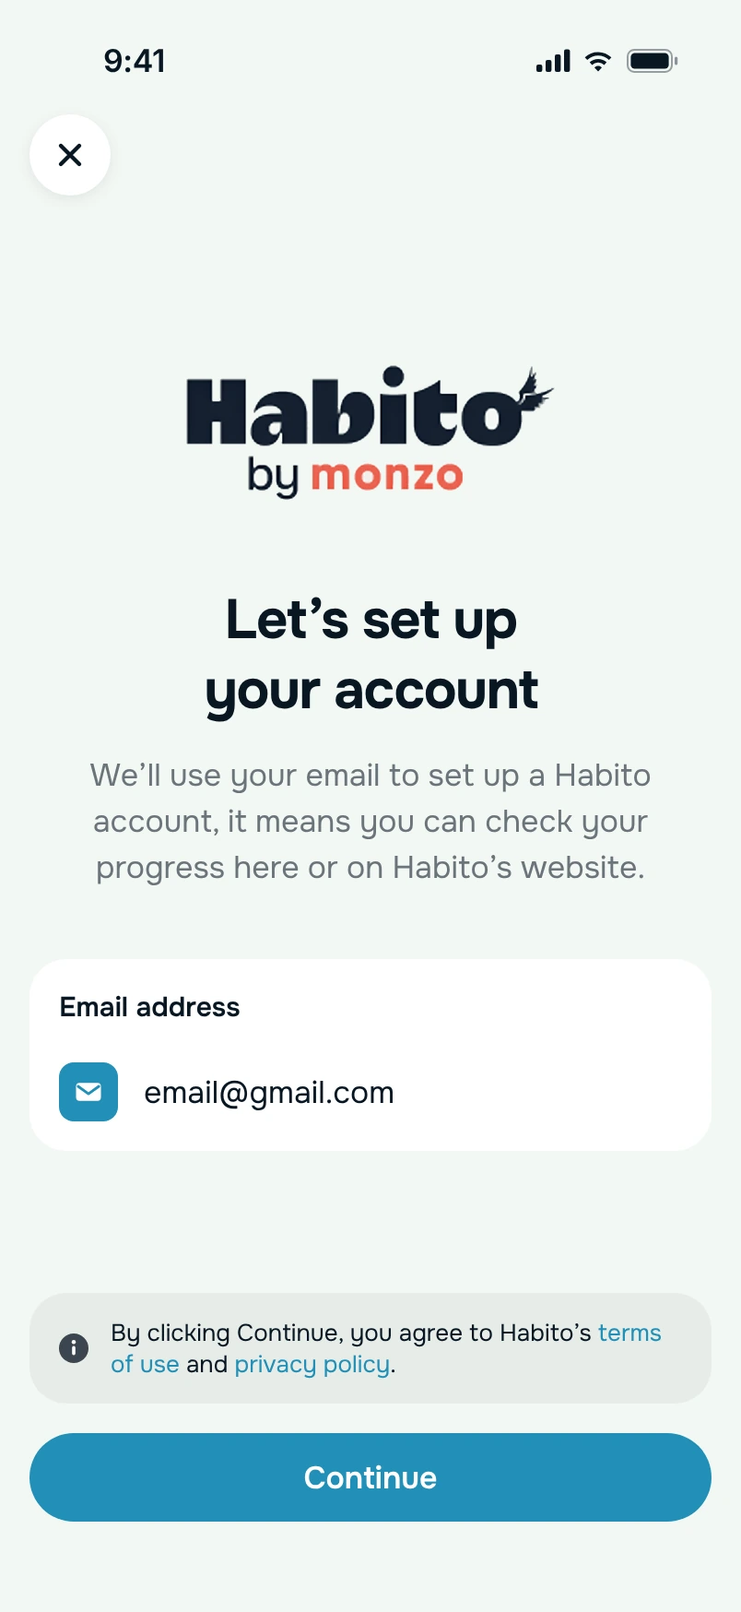
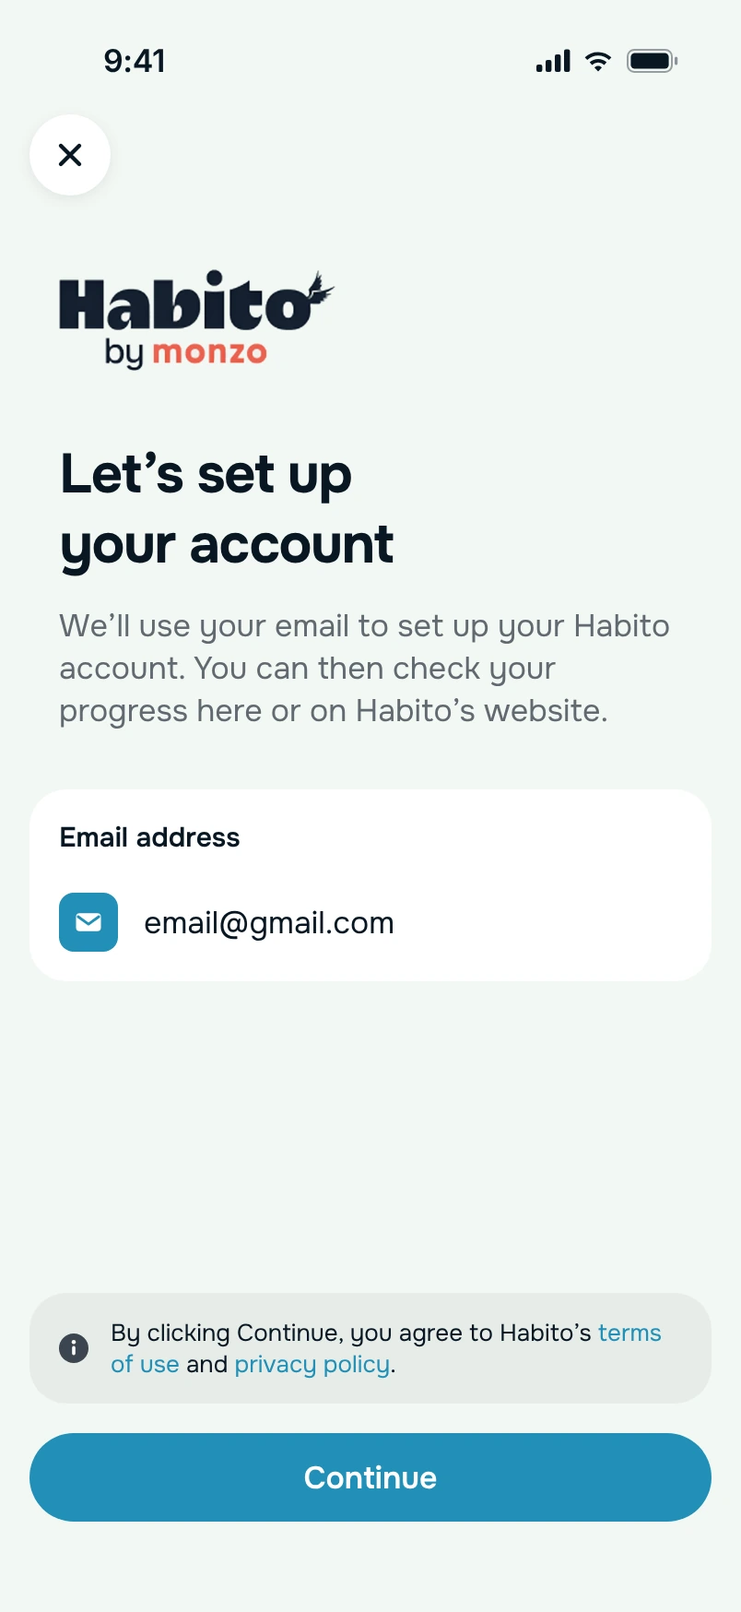
Remortgage deck: slide 9 screens left-aligned, clearer copy, 17 pt body and darker grey
Claude-Session: https://claude.ai/code/session_019ui8k763ghSzq4U6arn5bM

diff --git a/remortgage-presentation/present.html b/remortgage-presentation/present.html
@@ -9,11 +9,11 @@
 <link rel="preconnect" href="https://fonts.googleapis.com">
 <link rel="preconnect" href="https://fonts.gstatic.com" crossorigin>
 <link href="https://fonts.googleapis.com/css2?family=DM+Sans:opsz,wght@9..40,400;9..40,500;9..40,600;9..40,700;9..40,800&family=Fragment+Mono&display=swap" rel="stylesheet">
-<link rel="stylesheet" href="styles.css?v=198">
-<link rel="stylesheet" href="deck.css?v=198">
-<link rel="stylesheet" href="monzo.css?v=198">
+<link rel="stylesheet" href="styles.css?v=199">
+<link rel="stylesheet" href="deck.css?v=199">
+<link rel="stylesheet" href="monzo.css?v=199">
 <link rel="preconnect" href="https://images.ctfassets.net">
-<script src="present.js?v=198" defer></script>
+<script src="present.js?v=199" defer></script>
 <style>
 body.present{--bar:52px;background:#112231;grid-template-rows:minmax(0,1fr) auto;height:100svh;min-height:0;overflow:hidden}
 .present .topbar,.present .slide-caption,.present .arrow,.present .notes-bottom,.present .notes-sheet{display:none!important}
@@ -110,7 +110,7 @@ body.present{--bar:52px;background:#112231;grid-template-rows:minmax(0,1fr) auto
 <div class="vr" data-vr><i class="vr-glow" aria-hidden="true"></i><button class="vr-ph" type="button" style="--i:0" data-tap="" aria-label="Screen 1 of 10: Your home: your deal ends in 6 months, find a new deal"><span class="vr-rise"><span class="vr-dev"><span class="bz"><span class="bz-screen"><span class="vr-st"><span class="vr-sc" data-d="1"><img class="bz-anim vr-base" src="assets/img/vis-01.webp?v=1" alt="Your home: your deal ends in 6 months, find a new deal" decoding="async"><img class="bz-anim vr-fl vr-fl-float" src="assets/img/vr/v01-ill0.webp?v=1" alt="" style="left:350px;top:300px;width:220px;animation-delay:-0.0s"></span></span></span></span></span><i class="vr-bar"><i></i></i></span></button><button class="vr-ph" type="button" style="--i:1" data-tap=".5,.913" aria-label="Screen 2 of 10: Your deal ends in September: example deals based on what we know"><span class="vr-rise"><span class="vr-dev"><span class="bz"><span class="bz-screen"><span class="vr-st"><span class="vr-sc" data-d="1316"><img class="bz-anim vr-base" src="assets/img/vr/v02-base.webp" alt="Your deal ends in September: example deals based on what we know" decoding="async"><span class="vr-row" style="top:973.8px;height:275.6px;background:#f2f8f3"><img class="bz-anim vr-ri" src="assets/img/vr/v02-row-a.webp?v=1" alt="" style="width:1710px" data-dx="1110"></span><span class="vr-row" style="top:1773.8px;height:232.1px;background:#f2f8f3"><img class="bz-anim vr-ri" src="assets/img/vr/v02-row-b.webp?v=1" alt="" style="width:1447px" data-dx="0"></span><img class="bz-anim vr-fl vr-fl-bob" src="assets/img/vr/v02-logo0.webp?v=1" alt="" style="left:67.9px;top:162.6px;width:100px;animation-delay:-0.0s"><img class="bz-anim vr-fl vr-fl-bob" src="assets/img/vr/v02-logo1.webp?v=1" alt="" style="left:361.1px;top:132.8px;width:98px;animation-delay:-0.45s"><img class="bz-anim vr-fl vr-fl-bob" src="assets/img/vr/v02-logo2.webp?v=1" alt="" style="left:466.4px;top:228.2px;width:76px;animation-delay:-0.9s"><img class="bz-anim vr-fl vr-fl-bob" src="assets/img/vr/v02-logo3.webp?v=1" alt="" style="left:91.6px;top:305.3px;width:71px;animation-delay:-1.35s"></span><img class="bz-anim vr-ft" src="assets/img/vis-status.webp?v=1" alt="" style="height:84px"><img class="bz-anim vr-fb" src="assets/img/vr/v02-foot.webp?v=1" alt="" style="height:284px"></span></span></span></span><i class="vr-bar"><i></i></i></span></button><button class="vr-ph" type="button" style="--i:2" data-tap=".2,.565" aria-label="Screen 3 of 10: How would you like to proceed: speak to an expert, or get a recommendation first"><span class="vr-rise"><span class="vr-dev"><span class="bz"><span class="bz-screen"><span class="vr-st"><span class="vr-sc" data-d="0"><img class="bz-anim vr-base" src="assets/img/vis-03.webp?v=1" alt="How would you like to proceed: speak to an expert, or get a recommendation first" decoding="async"><img class="bz-anim vr-fl vr-fl-float" src="assets/img/vr/v03-ill0.webp?v=1" alt="" style="left:352px;top:560px;width:196px;animation-delay:-0.0s"><img class="bz-anim vr-fl vr-fl-float" src="assets/img/vr/v03-ill1.webp?v=1" alt="" style="left:343px;top:940px;width:217px;animation-delay:-0.7s"></span></span></span></span></span><i class="vr-bar"><i></i></i></span></button><button class="vr-ph" type="button" style="--i:3" data-tap="0.21,0.83" aria-label="Screen 4 of 10: Let’s take a quick look at your info: pre-filled details to review"><span class="vr-rise"><span class="vr-dev"><span class="bz"><span class="bz-screen"><span class="vr-st"><span class="vr-sc" data-d="71"><img class="bz-anim vr-base" src="assets/img/vis-04.webp?v=1" alt="Let’s take a quick look at your info: pre-filled details to review" decoding="async"><img class="bz-anim vr-fl vr-fl-float" src="assets/img/vr/v04-ill0.webp?v=1" alt="" style="left:350px;top:488px;width:198px;animation-delay:-0.0s"><img class="bz-anim vr-fl vr-fl-float" src="assets/img/vr/v04-ill1.webp?v=1" alt="" style="left:340px;top:698px;width:212px;animation-delay:-0.7s"><img class="bz-anim vr-fl vr-fl-float" src="assets/img/vr/v04-ill2.webp?v=1" alt="" style="left:390px;top:975px;width:170px;animation-delay:-1.4s"></span><img class="bz-anim vr-ft" src="assets/img/vis-status.webp?v=1" alt="" style="height:84px"></span></span></span></span><i class="vr-bar"><i></i></i></span></button><button class="vr-ph" type="button" style="--i:4" data-tap=".42,.525" aria-label="Screen 5 of 10: Your adviser, Jane: book a call or send a message"><span class="vr-rise"><span class="vr-dev"><span class="bz"><span class="bz-screen"><span class="vr-st"><span class="vr-sc" data-d="144"><img class="bz-anim vr-base" src="assets/img/vis-05.webp?v=1" alt="Your adviser, Jane: book a call or send a message" decoding="async"></span><img class="bz-anim vr-ft" src="assets/img/vis-status.webp?v=1" alt="" style="height:84px"></span></span></span></span><i class="vr-bar"><i></i></i></span></button><button class="vr-ph" type="button" style="--i:5" data-tap=".89,.653" aria-label="Screen 6 of 10: Chat with the Monzo assistant and your adviser"><span class="vr-rise"><span class="vr-dev"><span class="bz"><span class="bz-screen"><span class="vr-st"><span class="vr-sc" data-d="1"><img class="bz-anim vr-base" src="assets/img/vis-06.webp?v=1" alt="Chat with the Monzo assistant and your adviser" decoding="async"></span></span></span></span></span><i class="vr-bar"><i></i></i></span></button><button class="vr-ph" type="button" style="--i:6" data-tap=".21,.666" aria-label="Screen 7 of 10: Your personalised mortgage recommendations"><span class="vr-rise"><span class="vr-dev"><span class="bz"><span class="bz-screen"><span class="vr-st"><span class="vr-sc" data-d="167"><img class="bz-anim vr-base" src="assets/img/vr/v07-base.webp" alt="Your personalised mortgage recommendations" decoding="async"><span class="vr-row" style="top:535.9px;height:549.6px;background:#f2f8f3"><img class="bz-anim vr-ri" src="assets/img/vr/v07-row.webp?v=1" alt="" style="width:1289px" data-dx="689"></span></span><img class="bz-anim vr-ft" src="assets/img/vr/v07-top.webp" alt="" style="height:150px"></span></span></span></span><i class="vr-bar"><i></i></i></span></button><button class="vr-ph" type="button" style="--i:7" data-tap=".377,.49" aria-label="Screen 8 of 10: Your remortgage process: steps and what happens next"><span class="vr-rise"><span class="vr-dev"><span class="bz"><span class="bz-screen"><span class="vr-st"><span class="vr-sc" data-d="605"><img class="bz-anim vr-base" src="assets/img/vis-08.webp?v=1" alt="Your remortgage process: steps and what happens next" decoding="async"></span><img class="bz-anim vr-ft" src="assets/img/vis-status.webp?v=1" alt="" style="height:84px"></span></span></span></span><i class="vr-bar"><i></i></i></span></button><button class="vr-ph" type="button" style="--i:8" data-tap=".3,.572" aria-label="Screen 9 of 10: Documents needed by Barclays, uploaded from your phone"><span class="vr-rise"><span class="vr-dev"><span class="bz"><span class="bz-screen"><span class="vr-st"><span class="vr-sc" data-d="336"><img class="bz-anim vr-base" src="assets/img/vis-09.webp?v=1" alt="Documents needed by Barclays, uploaded from your phone" decoding="async"><img class="bz-anim vr-fl vr-fl-float" src="assets/img/vr/v09-ill0.webp?v=1" alt="" style="left:35px;top:175px;width:155px;animation-delay:-0.0s"></span><img class="bz-anim vr-ft" src="assets/img/vis-status.webp?v=1" alt="" style="height:84px"></span></span></span></span><i class="vr-bar"><i></i></i></span></button><button class="vr-ph" type="button" style="--i:9" data-tap="" aria-label="Screen 10 of 10: Your remortgage with Barclays is completed"><span class="vr-rise"><span class="vr-dev"><span class="bz"><span class="bz-screen"><span class="vr-st"><span class="vr-sc" data-d="0"><img class="bz-anim vr-base" src="assets/img/vis-10.webp?v=1" alt="Your remortgage with Barclays is completed" decoding="async"></span></span></span></span></span><i class="vr-bar"><i></i></i></span></button></div><canvas class="vr-fx" aria-hidden="true"></canvas><button class="vr-pp a" style="--d:6" type="button" aria-pressed="false"><i class="vr-pp-i" aria-hidden="true"></i><span class="vr-pp-t">Pause</span></button><span class="vr-links a" style="--d:6"><a class="fig-link ghost" href="https://monzo.com/blog/slowing-down-to-speed-up-how-a-2-month-engineering-pause-rebooted-our-mortgage-strategy" target="_blank" rel="noopener">Read the Monzo blog post ↗</a><a class="fig-link ghost" href="https://www.figma.com/design/auJMcyTUagjoT1qWHXPAzR/Remortgage-vision?node-id=604-26556&amp;t=594yZfradgzQ7vAW-1" target="_blank" rel="noopener">See the vision in Figma ↗</a></span><script src="vision-reel.js?v=3" defer></script></section>
 <section class="slide dark was-light" data-n="08" data-k="plan"><div class="eyebrow a mz-kicker">The vision</div><h1 class="a" style="--d:1">I turned the vision into bets the team could ship</h1>
 <div class="road road2"><div class="road-col a" style="--d:3"><div class="road-art"><img src="assets/img/spot-checklist.png" alt=""></div><div class="road-body"><span class="road-step">Now</span><p class="road-sub">What we could start straight away</p><ul class="road-list"><li>Onboarding to Habito</li><li>A progress tracker closer to real time</li><li>Pre-fill with data we already hold</li></ul></div></div><i class="road-arrow a" style="--d:4"></i><div class="road-col a" style="--d:4"><div class="road-art"><img src="assets/img/spot-form.png" alt=""></div><div class="road-body"><span class="road-step">Next</span><p class="road-sub">What needed more work</p><ul class="road-list"><li>Open the door to people without a connected mortgage</li><li>Our own application form</li><li>Estimated deals</li><li>Recommendations in Monzo, view only</li></ul></div></div><i class="road-arrow a" style="--d:5"></i><div class="road-col a" style="--d:5"><div class="road-art"><img src="assets/img/spot-support.png" alt=""></div><div class="road-body"><span class="road-step">Later</span><p class="road-sub">The big things</p><ul class="road-list"><li>Recommendations in Monzo, you can accept them</li><li>Adviser chat in the app*</li><li>Document upload*</li></ul></div></div></div><p class="note a road-foot" style="--d:7">* Moved back again later in 2026: we needed to grow faster, so the focus moved to first-time buyers.</p></section>
-<section class="slide dark was-light" data-n="09" data-k="honb"><div class="eyebrow a mz-kicker">The vision</div><h1 class="a" style="--d:1">We designed the onboarding to Habito</h1><div class="honb"><div class="role-ph a" style="--d:3"><div class="bz" style="width:250px"><span class="bz-screen"><img class="ir-scroll" style="--t:-44.6%" src="assets/img/honb-1.webp?v=4" alt="Find a mortgage with free expert help: Monzo introduces you to Habito, with how we’ll help and what’s good to know"></span></div><p><b>Value proposition</b> · the first page</p></div><div class="role-ph a" style="--d:4"><div class="bz" style="width:250px"><span class="bz-screen"><img src="assets/img/honb-2.webp?v=4" alt="Habito by Monzo: let’s set up your account with the email Monzo already has, then continue"></span></div><p><b>Your Habito account</b> · set up with your Monzo email</p></div><div class="role-ph a" style="--d:5"><div class="bz" style="width:250px"><span class="bz-screen"><img src="assets/img/honb-3.webp?v=4" alt="Are you remortgaging with someone else? By myself, or with someone else"></span></div><p><b>Someone else?</b> · add a second applicant</p></div><div class="role-ph a" style="--d:6"><div class="bz" style="width:250px"><span class="bz-screen"><img src="assets/img/honb-4.webp?v=4" alt="You’re all set: we’ll now take you to Habito to fill in a few details"></span></div><p><b>You’re all set</b> · then on to Habito</p></div></div></section>
+<section class="slide dark was-light" data-n="09" data-k="honb"><div class="eyebrow a mz-kicker">The vision</div><h1 class="a" style="--d:1">We designed the onboarding to Habito</h1><div class="honb"><div class="role-ph a" style="--d:3"><div class="bz" style="width:250px"><span class="bz-screen"><img class="ir-scroll" style="--t:-44.6%" src="assets/img/honb-1.webp?v=5" alt="Find a mortgage with free expert help: Monzo introduces you to Habito, with how we’ll help and what’s good to know"></span></div><p><b>Value proposition</b> · the first page</p></div><div class="role-ph a" style="--d:4"><div class="bz" style="width:250px"><span class="bz-screen"><img src="assets/img/honb-2.webp?v=5" alt="Habito by Monzo: let’s set up your account with the email Monzo already has, then continue"></span></div><p><b>Your Habito account</b> · set up with your Monzo email</p></div><div class="role-ph a" style="--d:5"><div class="bz" style="width:250px"><span class="bz-screen"><img src="assets/img/honb-3.webp?v=5" alt="Are you remortgaging with someone else? By myself, or with someone else"></span></div><p><b>Someone else?</b> · add a second applicant</p></div><div class="role-ph a" style="--d:6"><div class="bz" style="width:250px"><span class="bz-screen"><img src="assets/img/honb-4.webp?v=5" alt="You’re all set: we’ll now take you to Habito to fill in a few details"></span></div><p><b>You’re all set</b> · then on to Habito</p></div></div></section>
 <section class="slide dark was-light" data-n="10" data-k="walk">
 <div class="split" style="grid-template-columns:1fr 600px">
   <div>

diff --git a/remortgage-presentation/index.html b/remortgage-presentation/index.html
@@ -9,11 +9,11 @@
 <link rel="preconnect" href="https://fonts.googleapis.com">
 <link rel="preconnect" href="https://fonts.gstatic.com" crossorigin>
 <link href="https://fonts.googleapis.com/css2?family=DM+Sans:opsz,wght@9..40,400;9..40,500;9..40,600;9..40,700;9..40,800&family=Fragment+Mono&display=swap" rel="stylesheet">
-<link rel="stylesheet" href="styles.css?v=198">
-<link rel="stylesheet" href="deck.css?v=198">
-<link rel="stylesheet" href="monzo.css?v=198">
+<link rel="stylesheet" href="styles.css?v=199">
+<link rel="stylesheet" href="deck.css?v=199">
+<link rel="stylesheet" href="monzo.css?v=199">
 <link rel="preconnect" href="https://images.ctfassets.net">
-<script src="slides.js?v=198" defer></script>
+<script src="slides.js?v=199" defer></script>
 </head>
 <body>
 <header class="topbar">
@@ -98,7 +98,7 @@
 <div class="vr" data-vr><i class="vr-glow" aria-hidden="true"></i><button class="vr-ph" type="button" style="--i:0" data-tap="" aria-label="Screen 1 of 10: Your home: your deal ends in 6 months, find a new deal"><span class="vr-rise"><span class="vr-dev"><span class="bz"><span class="bz-screen"><span class="vr-st"><span class="vr-sc" data-d="1"><img class="bz-anim vr-base" src="assets/img/vis-01.webp?v=1" alt="Your home: your deal ends in 6 months, find a new deal" decoding="async"><img class="bz-anim vr-fl vr-fl-float" src="assets/img/vr/v01-ill0.webp?v=1" alt="" style="left:350px;top:300px;width:220px;animation-delay:-0.0s"></span></span></span></span></span><i class="vr-bar"><i></i></i></span></button><button class="vr-ph" type="button" style="--i:1" data-tap=".5,.913" aria-label="Screen 2 of 10: Your deal ends in September: example deals based on what we know"><span class="vr-rise"><span class="vr-dev"><span class="bz"><span class="bz-screen"><span class="vr-st"><span class="vr-sc" data-d="1316"><img class="bz-anim vr-base" src="assets/img/vr/v02-base.webp" alt="Your deal ends in September: example deals based on what we know" decoding="async"><span class="vr-row" style="top:973.8px;height:275.6px;background:#f2f8f3"><img class="bz-anim vr-ri" src="assets/img/vr/v02-row-a.webp?v=1" alt="" style="width:1710px" data-dx="1110"></span><span class="vr-row" style="top:1773.8px;height:232.1px;background:#f2f8f3"><img class="bz-anim vr-ri" src="assets/img/vr/v02-row-b.webp?v=1" alt="" style="width:1447px" data-dx="0"></span><img class="bz-anim vr-fl vr-fl-bob" src="assets/img/vr/v02-logo0.webp?v=1" alt="" style="left:67.9px;top:162.6px;width:100px;animation-delay:-0.0s"><img class="bz-anim vr-fl vr-fl-bob" src="assets/img/vr/v02-logo1.webp?v=1" alt="" style="left:361.1px;top:132.8px;width:98px;animation-delay:-0.45s"><img class="bz-anim vr-fl vr-fl-bob" src="assets/img/vr/v02-logo2.webp?v=1" alt="" style="left:466.4px;top:228.2px;width:76px;animation-delay:-0.9s"><img class="bz-anim vr-fl vr-fl-bob" src="assets/img/vr/v02-logo3.webp?v=1" alt="" style="left:91.6px;top:305.3px;width:71px;animation-delay:-1.35s"></span><img class="bz-anim vr-ft" src="assets/img/vis-status.webp?v=1" alt="" style="height:84px"><img class="bz-anim vr-fb" src="assets/img/vr/v02-foot.webp?v=1" alt="" style="height:284px"></span></span></span></span><i class="vr-bar"><i></i></i></span></button><button class="vr-ph" type="button" style="--i:2" data-tap=".2,.565" aria-label="Screen 3 of 10: How would you like to proceed: speak to an expert, or get a recommendation first"><span class="vr-rise"><span class="vr-dev"><span class="bz"><span class="bz-screen"><span class="vr-st"><span class="vr-sc" data-d="0"><img class="bz-anim vr-base" src="assets/img/vis-03.webp?v=1" alt="How would you like to proceed: speak to an expert, or get a recommendation first" decoding="async"><img class="bz-anim vr-fl vr-fl-float" src="assets/img/vr/v03-ill0.webp?v=1" alt="" style="left:352px;top:560px;width:196px;animation-delay:-0.0s"><img class="bz-anim vr-fl vr-fl-float" src="assets/img/vr/v03-ill1.webp?v=1" alt="" style="left:343px;top:940px;width:217px;animation-delay:-0.7s"></span></span></span></span></span><i class="vr-bar"><i></i></i></span></button><button class="vr-ph" type="button" style="--i:3" data-tap="0.21,0.83" aria-label="Screen 4 of 10: Let’s take a quick look at your info: pre-filled details to review"><span class="vr-rise"><span class="vr-dev"><span class="bz"><span class="bz-screen"><span class="vr-st"><span class="vr-sc" data-d="71"><img class="bz-anim vr-base" src="assets/img/vis-04.webp?v=1" alt="Let’s take a quick look at your info: pre-filled details to review" decoding="async"><img class="bz-anim vr-fl vr-fl-float" src="assets/img/vr/v04-ill0.webp?v=1" alt="" style="left:350px;top:488px;width:198px;animation-delay:-0.0s"><img class="bz-anim vr-fl vr-fl-float" src="assets/img/vr/v04-ill1.webp?v=1" alt="" style="left:340px;top:698px;width:212px;animation-delay:-0.7s"><img class="bz-anim vr-fl vr-fl-float" src="assets/img/vr/v04-ill2.webp?v=1" alt="" style="left:390px;top:975px;width:170px;animation-delay:-1.4s"></span><img class="bz-anim vr-ft" src="assets/img/vis-status.webp?v=1" alt="" style="height:84px"></span></span></span></span><i class="vr-bar"><i></i></i></span></button><button class="vr-ph" type="button" style="--i:4" data-tap=".42,.525" aria-label="Screen 5 of 10: Your adviser, Jane: book a call or send a message"><span class="vr-rise"><span class="vr-dev"><span class="bz"><span class="bz-screen"><span class="vr-st"><span class="vr-sc" data-d="144"><img class="bz-anim vr-base" src="assets/img/vis-05.webp?v=1" alt="Your adviser, Jane: book a call or send a message" decoding="async"></span><img class="bz-anim vr-ft" src="assets/img/vis-status.webp?v=1" alt="" style="height:84px"></span></span></span></span><i class="vr-bar"><i></i></i></span></button><button class="vr-ph" type="button" style="--i:5" data-tap=".89,.653" aria-label="Screen 6 of 10: Chat with the Monzo assistant and your adviser"><span class="vr-rise"><span class="vr-dev"><span class="bz"><span class="bz-screen"><span class="vr-st"><span class="vr-sc" data-d="1"><img class="bz-anim vr-base" src="assets/img/vis-06.webp?v=1" alt="Chat with the Monzo assistant and your adviser" decoding="async"></span></span></span></span></span><i class="vr-bar"><i></i></i></span></button><button class="vr-ph" type="button" style="--i:6" data-tap=".21,.666" aria-label="Screen 7 of 10: Your personalised mortgage recommendations"><span class="vr-rise"><span class="vr-dev"><span class="bz"><span class="bz-screen"><span class="vr-st"><span class="vr-sc" data-d="167"><img class="bz-anim vr-base" src="assets/img/vr/v07-base.webp" alt="Your personalised mortgage recommendations" decoding="async"><span class="vr-row" style="top:535.9px;height:549.6px;background:#f2f8f3"><img class="bz-anim vr-ri" src="assets/img/vr/v07-row.webp?v=1" alt="" style="width:1289px" data-dx="689"></span></span><img class="bz-anim vr-ft" src="assets/img/vr/v07-top.webp" alt="" style="height:150px"></span></span></span></span><i class="vr-bar"><i></i></i></span></button><button class="vr-ph" type="button" style="--i:7" data-tap=".377,.49" aria-label="Screen 8 of 10: Your remortgage process: steps and what happens next"><span class="vr-rise"><span class="vr-dev"><span class="bz"><span class="bz-screen"><span class="vr-st"><span class="vr-sc" data-d="605"><img class="bz-anim vr-base" src="assets/img/vis-08.webp?v=1" alt="Your remortgage process: steps and what happens next" decoding="async"></span><img class="bz-anim vr-ft" src="assets/img/vis-status.webp?v=1" alt="" style="height:84px"></span></span></span></span><i class="vr-bar"><i></i></i></span></button><button class="vr-ph" type="button" style="--i:8" data-tap=".3,.572" aria-label="Screen 9 of 10: Documents needed by Barclays, uploaded from your phone"><span class="vr-rise"><span class="vr-dev"><span class="bz"><span class="bz-screen"><span class="vr-st"><span class="vr-sc" data-d="336"><img class="bz-anim vr-base" src="assets/img/vis-09.webp?v=1" alt="Documents needed by Barclays, uploaded from your phone" decoding="async"><img class="bz-anim vr-fl vr-fl-float" src="assets/img/vr/v09-ill0.webp?v=1" alt="" style="left:35px;top:175px;width:155px;animation-delay:-0.0s"></span><img class="bz-anim vr-ft" src="assets/img/vis-status.webp?v=1" alt="" style="height:84px"></span></span></span></span><i class="vr-bar"><i></i></i></span></button><button class="vr-ph" type="button" style="--i:9" data-tap="" aria-label="Screen 10 of 10: Your remortgage with Barclays is completed"><span class="vr-rise"><span class="vr-dev"><span class="bz"><span class="bz-screen"><span class="vr-st"><span class="vr-sc" data-d="0"><img class="bz-anim vr-base" src="assets/img/vis-10.webp?v=1" alt="Your remortgage with Barclays is completed" decoding="async"></span></span></span></span></span><i class="vr-bar"><i></i></i></span></button></div><canvas class="vr-fx" aria-hidden="true"></canvas><button class="vr-pp a" style="--d:6" type="button" aria-pressed="false"><i class="vr-pp-i" aria-hidden="true"></i><span class="vr-pp-t">Pause</span></button><span class="vr-links a" style="--d:6"><a class="fig-link ghost" href="https://monzo.com/blog/slowing-down-to-speed-up-how-a-2-month-engineering-pause-rebooted-our-mortgage-strategy" target="_blank" rel="noopener">Read the Monzo blog post ↗</a><a class="fig-link ghost" href="https://www.figma.com/design/auJMcyTUagjoT1qWHXPAzR/Remortgage-vision?node-id=604-26556&amp;t=594yZfradgzQ7vAW-1" target="_blank" rel="noopener">See the vision in Figma ↗</a></span><script src="vision-reel.js?v=3" defer></script></section>
 <section class="slide dark was-light" data-n="08" data-k="plan"><div class="eyebrow a mz-kicker">The vision</div><h1 class="a" style="--d:1">I turned the vision into bets the team could ship</h1>
 <div class="road road2"><div class="road-col a" style="--d:3"><div class="road-art"><img src="assets/img/spot-checklist.png" alt=""></div><div class="road-body"><span class="road-step">Now</span><p class="road-sub">What we could start straight away</p><ul class="road-list"><li>Onboarding to Habito</li><li>A progress tracker closer to real time</li><li>Pre-fill with data we already hold</li></ul></div></div><i class="road-arrow a" style="--d:4"></i><div class="road-col a" style="--d:4"><div class="road-art"><img src="assets/img/spot-form.png" alt=""></div><div class="road-body"><span class="road-step">Next</span><p class="road-sub">What needed more work</p><ul class="road-list"><li>Open the door to people without a connected mortgage</li><li>Our own application form</li><li>Estimated deals</li><li>Recommendations in Monzo, view only</li></ul></div></div><i class="road-arrow a" style="--d:5"></i><div class="road-col a" style="--d:5"><div class="road-art"><img src="assets/img/spot-support.png" alt=""></div><div class="road-body"><span class="road-step">Later</span><p class="road-sub">The big things</p><ul class="road-list"><li>Recommendations in Monzo, you can accept them</li><li>Adviser chat in the app*</li><li>Document upload*</li></ul></div></div></div><p class="note a road-foot" style="--d:7">* Moved back again later in 2026: we needed to grow faster, so the focus moved to first-time buyers.</p></section>
-<section class="slide dark was-light" data-n="09" data-k="honb"><div class="eyebrow a mz-kicker">The vision</div><h1 class="a" style="--d:1">We designed the onboarding to Habito</h1><div class="honb"><div class="role-ph a" style="--d:3"><div class="bz" style="width:250px"><span class="bz-screen"><img class="ir-scroll" style="--t:-44.6%" src="assets/img/honb-1.webp?v=4" alt="Find a mortgage with free expert help: Monzo introduces you to Habito, with how we’ll help and what’s good to know"></span></div><p><b>Value proposition</b> · the first page</p></div><div class="role-ph a" style="--d:4"><div class="bz" style="width:250px"><span class="bz-screen"><img src="assets/img/honb-2.webp?v=4" alt="Habito by Monzo: let’s set up your account with the email Monzo already has, then continue"></span></div><p><b>Your Habito account</b> · set up with your Monzo email</p></div><div class="role-ph a" style="--d:5"><div class="bz" style="width:250px"><span class="bz-screen"><img src="assets/img/honb-3.webp?v=4" alt="Are you remortgaging with someone else? By myself, or with someone else"></span></div><p><b>Someone else?</b> · add a second applicant</p></div><div class="role-ph a" style="--d:6"><div class="bz" style="width:250px"><span class="bz-screen"><img src="assets/img/honb-4.webp?v=4" alt="You’re all set: we’ll now take you to Habito to fill in a few details"></span></div><p><b>You’re all set</b> · then on to Habito</p></div></div></section>
+<section class="slide dark was-light" data-n="09" data-k="honb"><div class="eyebrow a mz-kicker">The vision</div><h1 class="a" style="--d:1">We designed the onboarding to Habito</h1><div class="honb"><div class="role-ph a" style="--d:3"><div class="bz" style="width:250px"><span class="bz-screen"><img class="ir-scroll" style="--t:-44.6%" src="assets/img/honb-1.webp?v=5" alt="Find a mortgage with free expert help: Monzo introduces you to Habito, with how we’ll help and what’s good to know"></span></div><p><b>Value proposition</b> · the first page</p></div><div class="role-ph a" style="--d:4"><div class="bz" style="width:250px"><span class="bz-screen"><img src="assets/img/honb-2.webp?v=5" alt="Habito by Monzo: let’s set up your account with the email Monzo already has, then continue"></span></div><p><b>Your Habito account</b> · set up with your Monzo email</p></div><div class="role-ph a" style="--d:5"><div class="bz" style="width:250px"><span class="bz-screen"><img src="assets/img/honb-3.webp?v=5" alt="Are you remortgaging with someone else? By myself, or with someone else"></span></div><p><b>Someone else?</b> · add a second applicant</p></div><div class="role-ph a" style="--d:6"><div class="bz" style="width:250px"><span class="bz-screen"><img src="assets/img/honb-4.webp?v=5" alt="You’re all set: we’ll now take you to Habito to fill in a few details"></span></div><p><b>You’re all set</b> · then on to Habito</p></div></div></section>
 <section class="slide dark was-light" data-n="10" data-k="walk">
 <div class="split" style="grid-template-columns:1fr 600px">
   <div>

diff --git a/remortgage-presentation/15min-present.html b/remortgage-presentation/15min-present.html
@@ -9,11 +9,11 @@
 <link rel="preconnect" href="https://fonts.googleapis.com">
 <link rel="preconnect" href="https://fonts.gstatic.com" crossorigin>
 <link href="https://fonts.googleapis.com/css2?family=DM+Sans:opsz,wght@9..40,400;9..40,500;9..40,600;9..40,700;9..40,800&family=Fragment+Mono&display=swap" rel="stylesheet">
-<link rel="stylesheet" href="styles.css?v=198">
-<link rel="stylesheet" href="deck.css?v=198">
-<link rel="stylesheet" href="monzo.css?v=198">
+<link rel="stylesheet" href="styles.css?v=199">
+<link rel="stylesheet" href="deck.css?v=199">
+<link rel="stylesheet" href="monzo.css?v=199">
 <link rel="preconnect" href="https://images.ctfassets.net">
-<script src="15min-present.js?v=198" defer></script>
+<script src="15min-present.js?v=199" defer></script>
 <style>
 body.present{--bar:52px;background:#112231;grid-template-rows:minmax(0,1fr) auto;height:100svh;min-height:0;overflow:hidden}
 .present .topbar,.present .slide-caption,.present .arrow,.present .notes-bottom,.present .notes-sheet{display:none!important}

diff --git a/remortgage-presentation/15min.html b/remortgage-presentation/15min.html
@@ -9,11 +9,11 @@
 <link rel="preconnect" href="https://fonts.googleapis.com">
 <link rel="preconnect" href="https://fonts.gstatic.com" crossorigin>
 <link href="https://fonts.googleapis.com/css2?family=DM+Sans:opsz,wght@9..40,400;9..40,500;9..40,600;9..40,700;9..40,800&family=Fragment+Mono&display=swap" rel="stylesheet">
-<link rel="stylesheet" href="styles.css?v=198">
-<link rel="stylesheet" href="deck.css?v=198">
-<link rel="stylesheet" href="monzo.css?v=198">
+<link rel="stylesheet" href="styles.css?v=199">
+<link rel="stylesheet" href="deck.css?v=199">
+<link rel="stylesheet" href="monzo.css?v=199">
 <link rel="preconnect" href="https://images.ctfassets.net">
-<script src="15min.js?v=198" defer></script>
+<script src="15min.js?v=199" defer></script>
 </head>
 <body>
 <header class="topbar">
